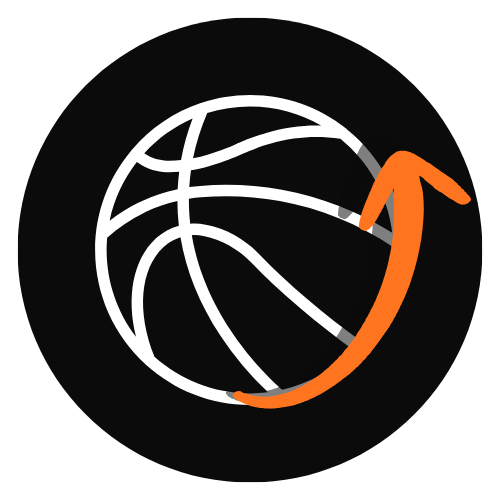
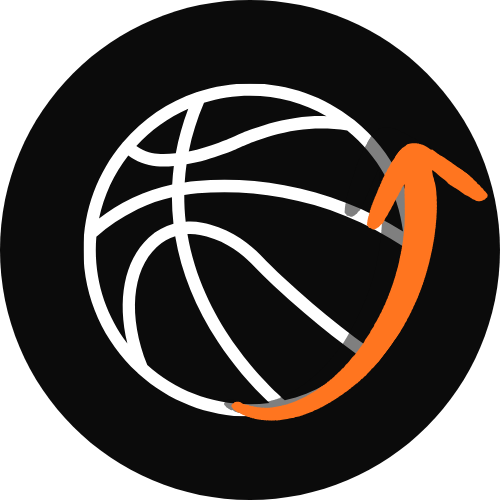
Replace circular mark with enlarged version

diff --git a/Backcourt-Web/index.html b/Backcourt-Web/index.html
@@ -10,7 +10,7 @@
     <meta property="og:type" content="website" />
     <meta property="og:url" content="https://backcourt.kro.kr" />
     <title>빽코트 | 일상에서, 다시 코트로.</title>
-    <link rel="icon" type="image/png" href="./assets/icon.png?v=2" />
+    <link rel="icon" type="image/png" href="./assets/icon.png?v=3" />
     <link rel="stylesheet" href="./styles.css?v=12" />
   </head>
   <body>
@@ -50,7 +50,7 @@
       <section class="visual-panel" aria-label="빽코트">
         <span class="visual-meta">IOS / ANDROID</span>
         <p class="visual-word" aria-hidden="true">BACK<br />COURT</p>
-        <div class="mark-wrap"><img src="./assets/icon.png?v=2" alt="빽코트" /></div>
+        <div class="mark-wrap"><img src="./assets/icon.png?v=3" alt="빽코트" /></div>
         <span class="visual-caption">FIND YOUR COURT</span>
         <div class="court-markings" aria-hidden="true"><i></i><b></b></div>
       </section>

diff --git a/Backcourt-Admin/index.html b/Backcourt-Admin/index.html
@@ -6,7 +6,7 @@
     <meta name="robots" content="noindex, nofollow" />
     <meta name="theme-color" content="#090909" />
     <title>빽코트 Admin</title>
-    <link rel="icon" type="image/png" href="./assets/icon.png?v=2" />
+    <link rel="icon" type="image/png" href="./assets/icon.png?v=3" />
     <link rel="stylesheet" href="./styles.css" />
   </head>
   <body>

diff --git a/Backcourt-Social/index.html b/Backcourt-Social/index.html
@@ -52,6 +52,6 @@
     </main>
 
     <footer>문구 · 배치 · 색은 화면 보면서 바로 수정</footer>
-    <script src="./app.js"></script>
+    <script src="./app.js?v=2"></script>
   </body>
 </html>

diff --git a/Backcourt-img/README.md b/Backcourt-img/README.md
@@ -7,8 +7,10 @@
 - `brand-mark-on-dark.png`: 어두운 배경용 투명 PNG
 - `brand-mark-light-square-original.png`: 흰 배경의 검정 공 + 주황 화살표 원본
 - `brand-mark-on-light.png`: 밝은 배경용 투명 PNG
-- `brand-mark-circle-on-white-original.png`: 흰 배경 원형 배지 원본
-- `brand-mark-circle.png`: 웹 파비콘·배지용 투명 원형 PNG
+- `brand-mark-circle-on-white-original.png`: 첫 번째 흰 배경 원형 배지 원본
+- `brand-mark-circle-v1.png`: 첫 번째 투명 원형 배지
+- `brand-mark-circle-large-on-white-original.png`: 확대된 흰 배경 원형 배지 원본
+- `brand-mark-circle-v2.png`: 확대된 투명 원형 배지 원본
+- `brand-mark-circle.png`: 현재 웹 파비콘·배지에 사용하는 원형 PNG
 - `main.png`: 흰색 농구공 원본
 - `onlyBall.png`: 흰색 농구공 투명 PNG
-
